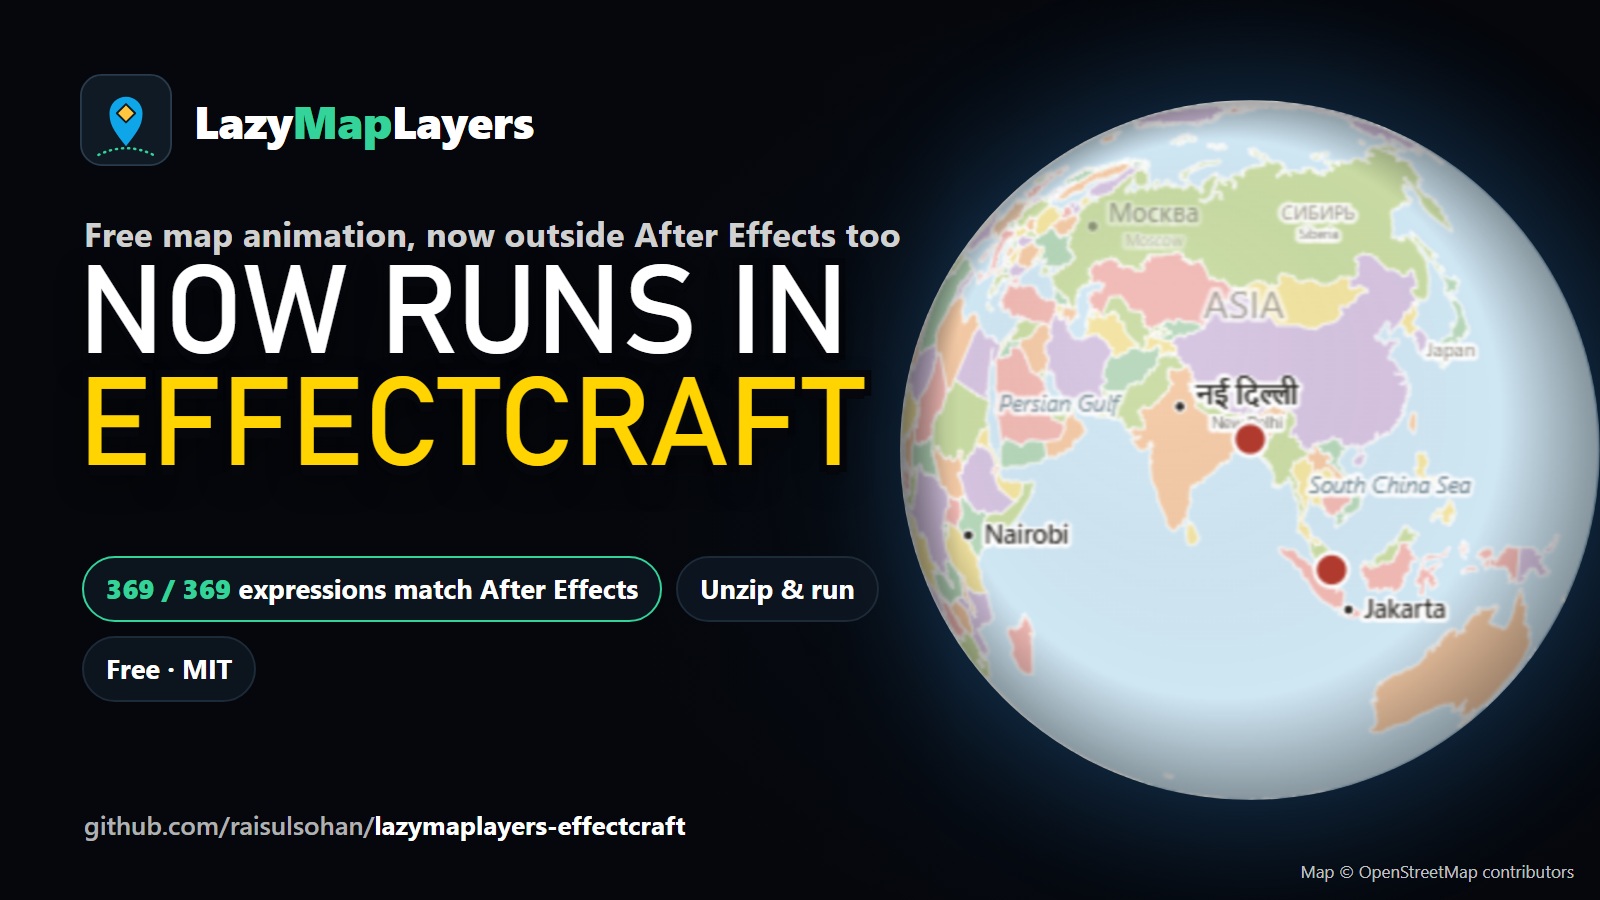
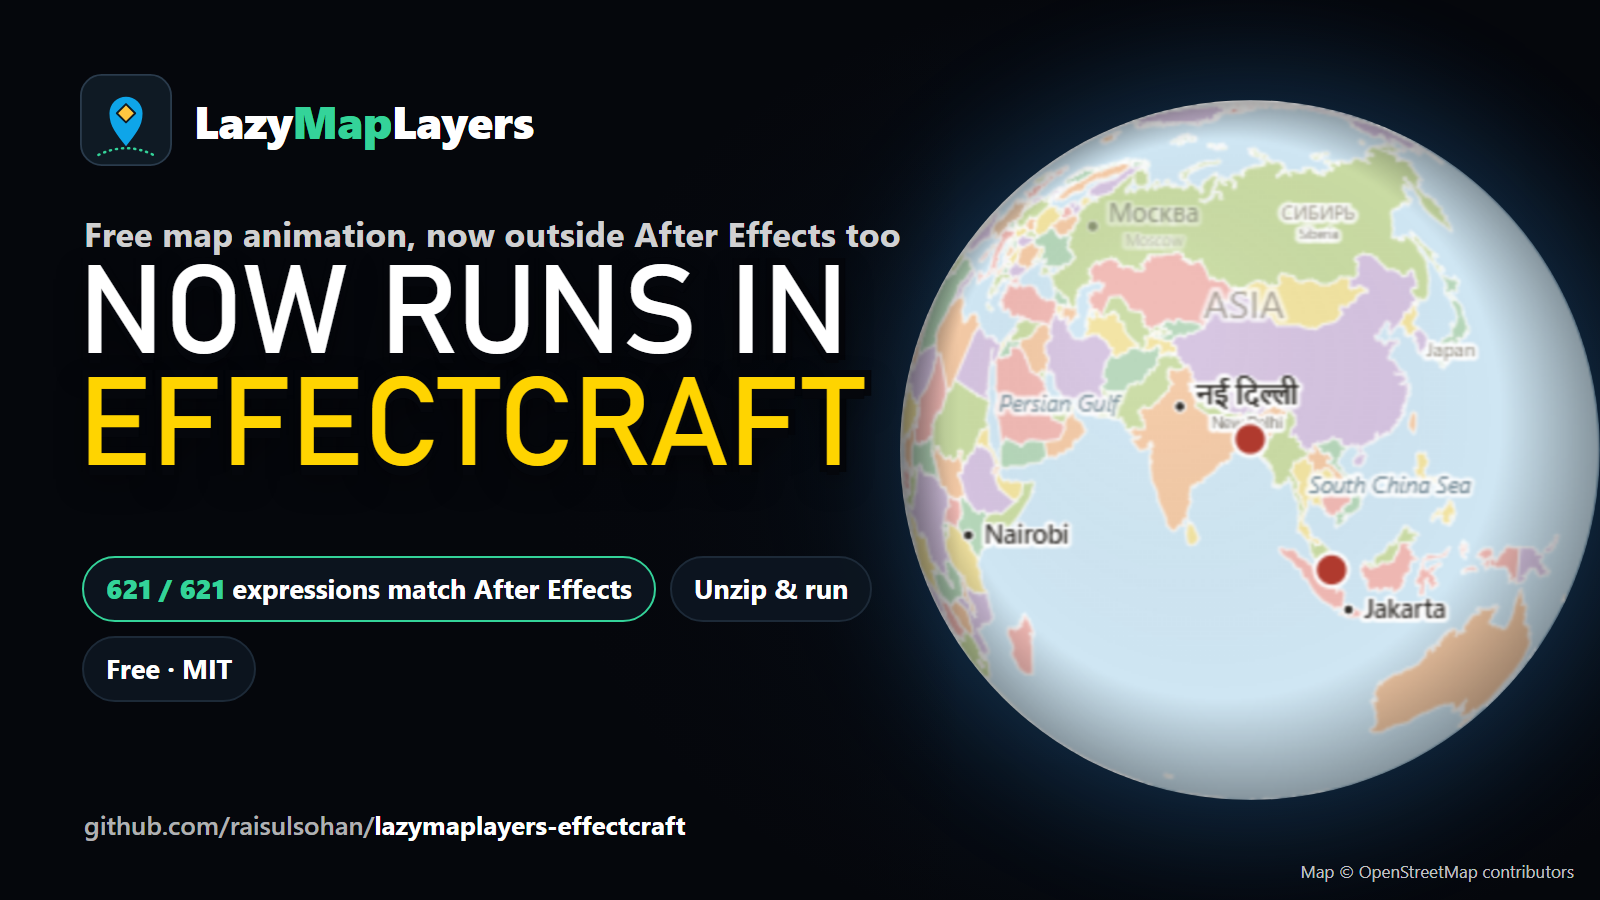
LazyMapLayers 1.2.0 for EffectCraft
Built from LazyMapLayers 1.2.0 and tested in EffectCraft 0.8.0:
- the companion unpacks gzipped answers (Overpass for routes on roads),
  since the page has no synchronous zlib
- osm-cache (street detail) and osm-roads (routes on roads) shared with
  the After Effects version's data folder
- fs.utimesSync and os.arch in the panel's Node shims
- dist/CSXS/manifest.xml for the Self-test's version
- ping keeps app.version (the Self-test reads the After Effects version
  EffectCraft stands for); the panel's host line picks out the name
- the Self-test reports no pixel sample where sampleImage() reads footage
  as [0, 0, 0, 0], so it warns instead of failing
- the panel has a temp folder of its own, apart from the After Effects
  version's in-app test requests
- check-expressions covers the arrow rig: 621 of 621 in 59 kinds
- README and two more issue drafts (sampleImage on footage, selection in
  a comp that is not open)

Changed region(s): [[0.0625, 0.6222, 0.5312, 0.6844]]

diff --git a/tools/check-expressions.ts b/tools/check-expressions.ts
@@ -23,6 +23,7 @@ const { anchoredPositionExpression, curvedLabelPathExpression, leaderPathExpress
 const { float32, pinExpressions } = await core("ae/pinExpressions.ts");
 const { lodPathExpression, shapePathExpressions, shapeRings } = await core("ae/shapeExpressions.ts");
 const { minimapBoxExpression, northRotationExpression, scaleBarPathExpression, scaleBarTextExpression } = await core("ae/mapFurniture.ts");
+const { arrowRigExpressions } = await core("ae/arrowRig.ts");
 const { greatCircle } = await core("geo/greatCircle.ts");
 const { chartTimeRemapExpression, growingLineExpression, lineHeadExpression, lineLabelExpression, lineValueExpression } = await core("ae/chartExpressions.ts");
 
@@ -129,6 +130,31 @@ for (const globe of [false, true]) {
     add(`traveller position ${kind} ${i}`, traveller.position, { own: travellerOwn, map, comp, value: [0, 0] });
     add(`traveller rotation ${kind} ${i}`, traveller.rotation, { own: travellerOwn, map, comp, value: 10 }, 1e-5);
     add(`traveller opacity ${kind} ${i}`, traveller.opacity, { own: travellerOwn, map, comp, value: 90 });
+    const arrow = arrowRigExpressions(route, map.height / 1080);
+    const arrowProgress = float32(random() * 100);
+    const arrowOwn = {
+      Map: "MAP" as const,
+      Progress: arrowProgress,
+      Tail: float32(random() * arrowProgress),
+      Width: float32(2 + random() * 20),
+      "Tail Width": 35,
+      "Taper Length": 100,
+      "Head Size": float32(50 + random() * 100),
+      "Head Style": 1 + (i % 3),
+      "Both Ends": (i >> 1) % 2,
+      Dash: i % 2 ? 12 : 0,
+      Gap: 8,
+      "Dash Speed": 30,
+      "Outline Width": i % 2 ? 3 : 0
+    };
+    const arrowScalars: (keyof typeof arrow)[] = ["trimStart", "trimEnd", "headRotation", "tailRotation", "fillOpacity", "chevronOpacity", "lineWidth", "outlineWidth", "headOutlineWidth", "outlineOpacity", "taperStartWidth", "taperStartLength", "dash", "gap", "dashOffset"];
+    add(`arrow path ${kind} ${i}`, arrow.path, { own: arrowOwn, map, comp, value: null });
+    add(`arrow head shape ${kind} ${i}`, arrow.headPath, { own: arrowOwn, map, comp, value: null });
+    add(`arrow head position ${kind} ${i}`, arrow.headPosition, { own: arrowOwn, map, comp, value: [0, 0] });
+    add(`arrow tail position ${kind} ${i}`, arrow.tailPosition, { own: arrowOwn, map, comp, value: [0, 0] });
+    add(`arrow head opacity ${kind} ${i}`, arrow.headOpacity, { own: arrowOwn, map, comp, value: 100 });
+    add(`arrow tail opacity ${kind} ${i}`, arrow.tailOpacity, { own: arrowOwn, map, comp, value: 100 });
+    for (const which of arrowScalars) add(`arrow ${which} ${kind} ${i}`, arrow[which], { own: arrowOwn, map, comp, value: 0, time: 1.5 }, 1e-5);
     const centre = near(view, spread);
     const radius = spread / 4;
     const circle = (r: number) => Array.from({ length: 24 }, (_, k) => [centre.lng + r * Math.cos((k / 24) * 2 * Math.PI), centre.lat + r * Math.sin((k / 24) * 2 * Math.PI)]);

diff --git a/host/compat-post.jsx b/host/compat-post.jsx
@@ -12,15 +12,30 @@
     };
     LMLEC.fixes.push("generated expressions rewritten");
 
-    // app.version is "26.0 (EffectCraft 0.8.0)": the panel shows the app it runs in.
+    // app.version stays "26.0 (EffectCraft 0.8.0)": the Self-test reads the After Effects version EffectCraft
+    // stands for from its start, and the panel's host line picks out the name (tools/build.mjs).
     var ping = LML.api.ping;
     LML.api.ping = function () {
         var info = ping();
-        var named = /\((EffectCraft [^)]+)\)/.exec(String(info.appVersion));
-        if (named) info.appVersion = named[1];
         info.effectcraft = { compat: LMLEC.fixes };
         return info;
     };
+
+    /*
+     * The Self-test samples the rendered frame with sampleImage(); in EffectCraft 0.8.0 that gives
+     * [0, 0, 0, 0] on a footage layer (and a precomp holding one), which an opaque frame never is. Then
+     * no sample is reported, and the Self-test says the pixels were not compared instead of failing.
+     */
+    if (LML.selfTest && LML.selfTest.run) {
+        var selfTestRun = LML.selfTest.run;
+        LML.selfTest.run = function (args) {
+            var out = selfTestRun(args);
+            var s = out && out.sample;
+            if (s && s.length >= 4 && s[0] === 0 && s[1] === 0 && s[2] === 0 && s[3] === 0) out.sample = null;
+            return out;
+        };
+        LMLEC.fixes.push("Self-test: no pixel comparison where sampleImage reads footage as empty");
+    }
 
     /*
      * When a render of another size replaces a pass's footage (a half-size preview, then the final),

diff --git a/panel/cep.ts b/panel/cep.ts
@@ -145,6 +145,11 @@ const fsShim = {
   linkSync(from: string, to: string): void {
     syncCall("link", { from: String(from), to: String(to) });
   },
+  /** Times as Node takes them: a Date, or seconds since 1970. */
+  utimesSync(p: string, atime: Date | number, mtime: Date | number): void {
+    const seconds = (t: Date | number) => (t instanceof Date ? t.getTime() / 1000 : Number(t));
+    syncCall("utimes", { p: String(p), atime: seconds(atime), mtime: seconds(mtime) });
+  },
   realpathSync(p: string): string {
     return syncJson<{ v: string }>("realpath", { p: String(p) }).v;
   },
@@ -265,6 +270,7 @@ const osShim = {
   tmpdir: () => ENV.tmp,
   platform: () => ENV.platform,
   release: () => ENV.release,
+  arch: () => ENV.arch,
   EOL: WIN ? "\r\n" : "\n",
   cpus: () => Array.from({ length: navigator.hardwareConcurrency || 4 }, () => ({ model: "", speed: 0 }))
 };

diff --git a/panel/prelude.ts b/panel/prelude.ts
@@ -6,6 +6,7 @@ export type EcEnv = {
   token: string;
   platform: string;
   release: string;
+  arch: string;
   pid: number;
   root: string;
   home: string;
@@ -27,6 +28,7 @@ const env = window.__LMLEC__;
 
 (globalThis as unknown as { process: unknown }).process = {
   platform: env.platform,
+  arch: env.arch,
   env: env.env,
   pid: env.pid,
   versions: {},

diff --git a/README.md b/README.md
@@ -1,6 +1,6 @@
 # LazyMapLayers for EffectCraft
 
-<p align="center"><a href="https://github.com/raisulsohan/lazymaplayers-effectcraft/releases/latest"><img src="docs/images/cover.png" width="100%" alt="LazyMapLayers now runs in EffectCraft: 369 of 369 expressions match After Effects; unzip and run; free, MIT. A globe rendered by LazyMapLayers, with names in their own scripts." /></a></p>
+<p align="center"><a href="https://github.com/raisulsohan/lazymaplayers-effectcraft/releases/latest"><img src="docs/images/cover.png" width="100%" alt="LazyMapLayers now runs in EffectCraft: 621 of 621 expressions match After Effects; unzip and run; free, MIT. A globe rendered by LazyMapLayers, with names in their own scripts." /></a></p>
 
 LazyMapLayers (the map design and map animation panel for After Effects) running in
 [EffectCraft](https://github.com/storytold/effectcraft), the open-source After Effects-style
@@ -82,20 +82,28 @@ node tools/build.mjs
 - This version keeps its renders, render queue, drafts and settings in
   `%APPDATA%\LazyMapLayers for EffectCraft` (macOS: `~/Library/Application Support/LazyMapLayers for EffectCraft`).
 - The downloads are **shared** with the After Effects version: `offline`, `regions`, `terrain`,
-  `history`, `imagery`, `boundaries`, `osm`, `satellite` and `districts` under this version's data
+  `history`, `imagery`, `boundaries`, `osm`, `osm-cache` (street detail), `osm-roads` (routes on
+  roads), `satellite` and `districts` under this version's data
   folder are read from and written to the After Effects version's data folder
   (`%APPDATA%\LazyMapLayers`). A region or offline pack downloaded in either version is there in both.
   `LMLEC_AE_DATA` points the companion at another folder for them.
+- The panel's temporary files (job files, its log, in-app test requests) go to
+  `%TEMP%\LazyMapLayers for EffectCraft`, apart from the After Effects version's, so both can run at once.
 
 ## What works
 
-LazyMapLayers' own in-app test suites, run in EffectCraft 0.8.0 through this version
+LazyMapLayers 1.2.0's own in-app test suites, run in EffectCraft 0.8.0 through this version
 (`tools/run-suites.mjs`), and every kind of generated expression compared with After Effects' maths
-on real EffectCraft layers (`tools/check-expressions.ts`: 369 of 369).
+on real EffectCraft layers (`tools/check-expressions.ts`: 621 of 621, in 59 kinds, the arrow rig's
+included).
 
 | Suite | What | In EffectCraft |
 |---|---|---|
 | H1 | Host API through the bridge, one undo step per action | 9 / 9 |
+| AR1 | The arrow rig (1.2): line and head on one layer, tapered, dashed, both ends | pass |
+| RR1 | Routes on roads (1.2), roads from Overpass, kept on disk | pass |
+| SF1 | The Self-test (1.2) | 4 of 5 pass, one warning (see below) |
+| SD1 | Street detail on demand (1.2) | the planet's tiles come through the companion (checked by hand); the suite needs a light pack beside a development build of the After Effects version |
 | P1, C1 | Pins and the matched 3D camera against the camera maths | pass |
 | E1 | End to end | pass |
 | R1 | Renderer, passes, cache, preview proxy over the final render | pass but one check (see below) |
@@ -104,7 +112,7 @@ on real EffectCraft layers (`tools/check-expressions.ts`: 369 of 369).
 | AT1, MF1 | Your own layers attached to a place; scale bar, north arrow, graticule | pass |
 | RT1, DR1 | Routes, travellers, dashed lines; drawn paths as routes | pass |
 | SL1, HL1 | Outlines as shape layers; highlights as their own pass | pass (SL1: slow, see below) |
-| LB2 – LB6 | Label template, keep-out zones, nature names, names inside Paris along their streets, oceans on a globe | pass |
+| LB2 – LB6 | Label template, keep-out zones, nature names, names inside Paris along their streets, oceans on a globe | pass in 1.1.2; LB2 and LB3 select layers by script in a comp that is not open, see below |
 | LD1, LD2 | Label designs of your own, with each place's picture | pass |
 | FO1, FB1, LK1 | A map that follows another; the feature browser; your own looks | pass |
 | DT1, DT2, DT3, HT1 | Numbers on the map, categories and years, prisms, heat | pass |
@@ -148,6 +156,14 @@ EffectCraft as [#808 – #817](https://github.com/storytold/effectcraft/issues?q
 - **Your own imagery test.** LazyMapLayers' OI1 test starts a tile server inside the panel, which a
   browser window cannot; the feature itself (imagery from a server on this computer) uses the
   companion's downloads.
+- **Self-test pixels.** The Self-test (Maps ▸ About) checks that After Effects shows the rendered frame's
+  colours with `sampleImage()`, which gives `[0, 0, 0, 0]` on footage in EffectCraft 0.8.0. That check
+  is reported as not compared (a warning) instead of failing; the other four checks run as in After Effects.
+- **Selection in a comp that is not open.** EffectCraft keeps layers selected by a script only in the
+  comp open in the viewer. Selecting in the scene you are working in (the usual way, for a label
+  template from a text layer or the layers names keep away from) works; LazyMapLayers' LB2 and LB3
+  tests, which select by script in a
+  scene that is not open, do not.
 
 ## The compatibility layer
 
@@ -173,6 +189,8 @@ After Effects. They use EffectCraft's own engine commands, never its files.
 | No `app.fonts`; a `TextDocument` set by PostScript name reports that name as its family (the text itself renders right) | PostScript names matched to installed families and styles | [#816](https://github.com/storytold/effectcraft/issues/816) |
 | A pass layer keeps its old anchor point and out point when a render of another size or length replaces its footage | centred and as long as its footage | [#813](https://github.com/storytold/effectcraft/issues/813) |
 | Errors carry no line number (`e.line`) | the line, from the stack | [#816](https://github.com/storytold/effectcraft/issues/816) |
+| `sampleImage()` gives `[0, 0, 0, 0]` on footage (the Self-test's pixel check) | no sample reported, so the Self-test warns instead of failing | draft |
+| (not EffectCraft's) the page has no Node `zlib`; Overpass answers come gzipped | the companion unpacks answers before the panel sees them | |
 
 ## Security
 

diff --git a/docs/effectcraft-issues.md b/docs/effectcraft-issues.md
@@ -46,6 +46,8 @@ each API name and topic). Related, not duplicates:
 | 8 | Scripting: After Effects matchNames for stroke Dashes and text Path Options | [#815](https://github.com/storytold/effectcraft/issues/815) |
 | 9 | Scripting: smaller gaps (`saveFrameToPng`, `layer.position`, `app.fonts`, `Folder.temp`, `$.getenv`, `File.rename`, `e.line`) | [#816](https://github.com/storytold/effectcraft/issues/816) |
 | 10 | Scripting: `File` with `encoding = "BINARY"` turns byte 0x89 into U+FFFD | [#817](https://github.com/storytold/effectcraft/issues/817) |
+| 11 | Expressions: `sampleImage()` on a footage layer gives `[0, 0, 0, 0]` | draft, not posted yet |
+| 12 | Scripting: a layer selected by script in a comp that is not open is not selected in the next script | draft, not posted yet |
 
 ---
 
@@ -637,6 +639,92 @@ writeLn(codes.join(" "));
 
 **How LazyMapLayers works around it.** Its companion program (Node) copies and writes binary files;
 the host script only reads and writes text.
+
+---
+
+## 11. Expressions: `sampleImage()` on a footage layer gives `[0, 0, 0, 0]`
+
+Draft (found 2026-10-12 with LazyMapLayers 1.2, not posted yet).
+
+**What happens.** `sampleImage()` reads the right colour from a solid, a shape layer and a precomp of a
+solid, but from an imported image (a PNG) it gives `[0, 0, 0, 0]`, at any point and any time, with no
+expression error. A precomp that holds the image gives the same through a Layer Control. LazyMapLayers 1.2's
+Self-test samples its rendered frame this way to check that After Effects shows the frame's colours.
+
+**What After Effects does.** Gives the image's colour at that point (RGBA, 0 to 1).
+
+**Repro.** Put any opaque PNG `frame.png` next to a saved project and run
+`effectcraft-cli script repro.jsx folder/project.ecproj` (change `dir`):
+
+```js
+var dir = "C:/path/to/folder";
+var comp = app.project.items.addComp("Scene", 640, 360, 1, 1, 25);
+var inner = app.project.items.addComp("Inner", 640, 360, 1, 1, 25);
+inner.layers.addSolid([0, 1, 0], "Green", 640, 360, 1);
+comp.layers.add(inner).name = "Pre";
+comp.layers.add(app.project.importFile(new ImportOptions(new File(dir + "/frame.png")))).name = "Img";
+comp.layers.addSolid([1, 0, 0], "Red", 640, 360, 1);
+var cc = comp.layers.addNull().property("ADBE Effect Parade").addProperty("ADBE Color Control").property(1);
+var names = ["Red", "Pre", "Img"];
+for (var i = 0; i < names.length; i++) {
+  cc.expression = 'thisComp.layer("' + names[i] + '").sampleImage([320, 180], [0.5, 0.5], true, time);';
+  writeLn(names[i] + ": " + cc.valueAtTime(0, false).join(", ") + "   expressionError=" + JSON.stringify(cc.expressionError));
+}
+```
+
+**Expected (After Effects).** `Red: 1, 0, 0, 1`, `Pre: 0, 1, 0, 1`, and for `Img` the PNG's colour at
+(320, 180) with alpha 1.
+
+**Actual (EffectCraft 0.8.0, Windows x64, headless; the app gives the same in the Self-test).**
+
+```
+Red: 1, 0, 0, 1   expressionError=""
+Pre: 0, 1, 0, 1   expressionError=""
+Img: 0, 0, 0, 0   expressionError=""
+```
+
+**How LazyMapLayers works around it** (`host/compat-post.jsx`): when the Self-test's sample comes back
+`[0, 0, 0, 0]` (which an opaque frame never is), it reports no sample, so the Self-test says the pixels
+were not compared (a warning) instead of failing. Nothing else in LazyMapLayers uses `sampleImage()`.
+
+---
+
+## 12. Scripting: a layer selected by script in a comp that is not open is not selected in the next script
+
+Draft (found 2026-10-12 with LazyMapLayers 1.2, not posted yet).
+
+**What happens.** `layer.selected = true` in a comp that is not the one open in the viewer shows in
+`comp.selectedLayers` for the rest of that script, but the next script (the next call over
+`--control`, the way a panel talks to the app) finds nothing selected there. In the comp open in the
+viewer the selection stays.
+
+**What After Effects does.** Every comp keeps its own layer selection, open or not; `selectedLayers`
+gives it in any later script.
+
+**Repro.** Two calls over the control channel (`effectcraft --control 9877`, `script.run`), or two
+scripts run one after the other in the app:
+
+```js
+// Call 1
+var a = app.project.items.addComp("Active", 400, 300, 1, 2, 25);
+a.openInViewer();
+var c = app.project.items.addComp("Other", 400, 300, 1, 2, 25);
+c.layers.addText("A").name = "A";
+c.layers.addText("B").name = "B";
+c.layer("B").selected = true;
+c.selectedLayers.length + " " + c.layer("B").selected;   // "1 true"
+
+// Call 2
+var c = null;
+for (var k = 1; k <= app.project.numItems; k++) if (app.project.item(k).name === "Other") c = app.project.item(k);
+c.selectedLayers.length + " " + c.layer("B").selected;   // After Effects: "1 true"
+```
+
+**Actual (EffectCraft 0.8.0, Windows x64, in the app over `--control`).** Call 1 gives `1 true`, call 2
+gives `0 false`. With `c.openInViewer()` before selecting, call 2 gives `1 true`.
+
+**How LazyMapLayers works around it.** It does not: in normal use the layers are selected in the open
+scene. Two of LazyMapLayers' own tests (LB2, LB3) select by script in a scene that is not open and fail.
 
 ---
 
